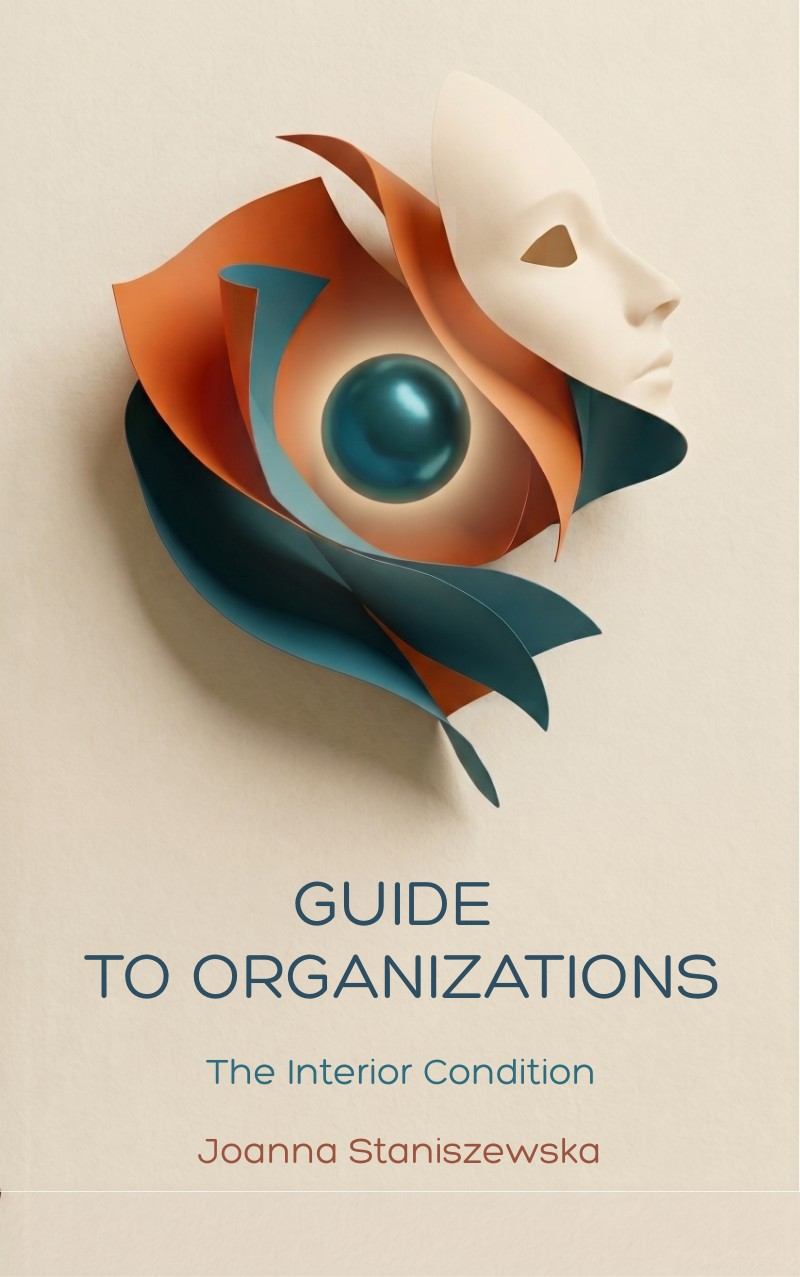
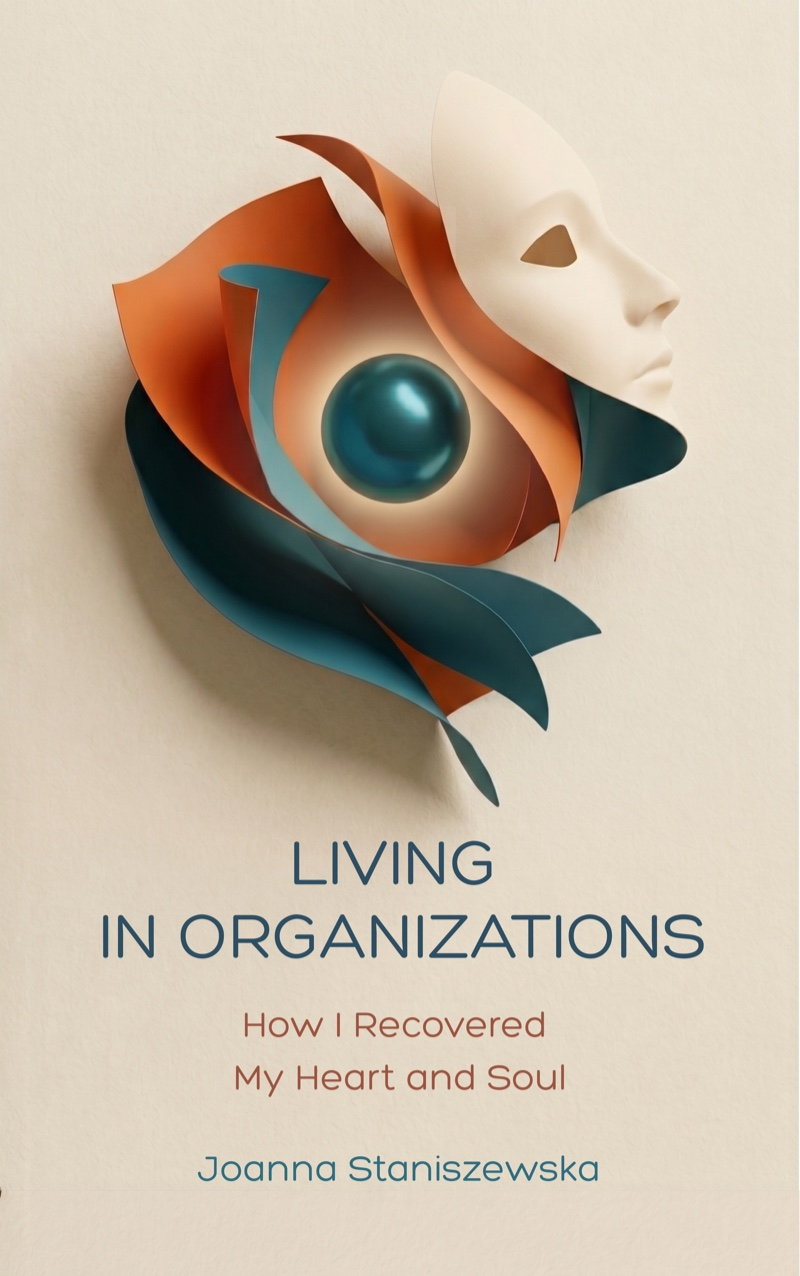
Retitle to Living in Organizations + new cover + publisher
New title/subtitle on hero, footer, privacy policy, form subject, alt text.
Add publisher "Guide to Organizations Press" (linked) in footer.
Replace cover image with new front (Living in Organizations).

Changed region(s): [[0.125, 0.6418, 0.9062, 0.8558], [0.25, 0.8864, 0.75, 0.9475]]

diff --git a/index.html b/index.html
@@ -3,7 +3,7 @@
 <head>
   <meta charset="UTF-8" />
   <meta name="viewport" content="width=device-width, initial-scale=1.0" />
-  <title>Guide to Organizations — Joanna Staniszewska</title>
+  <title>Living in Organizations — Joanna Staniszewska</title>
   <meta name="description" content="A philosophical inquiry into organizational life — from recruitment and strategy to meaning, courage, and beauty. By Joanna Staniszewska." />
   <link rel="preconnect" href="https://fonts.googleapis.com" />
   <link rel="preconnect" href="https://fonts.gstatic.com" crossorigin />
@@ -14,7 +14,7 @@
 <body>
 
   <nav>
-    <a href="#" class="nav-brand">Guide to Organizations</a>
+    <a href="#" class="nav-brand">Living in Organizations</a>
     <ul class="nav-links">
       <li><a href="#perspective">Perspective</a></li>
       <li><a href="#chapters">Chapters</a></li>
@@ -28,15 +28,15 @@
     <div class="hero-inner">
       <div class="hero-text">
         <p class="section-label">Coming Soon</p>
-        <h1>Guide to Organizations</h1>
-        <p class="hero-subtitle">The Interior Condition</p>
+        <h1>Living in Organizations</h1>
+        <p class="hero-subtitle">How I Recovered My Heart and Soul</p>
         <p class="hero-byline">Joanna Staniszewska</p>
         <p class="hero-desc">Every organization eventually faces the same thirty-three questions. This book prepares you for them.</p>
         <a href="#notify" class="btn-primary">Get early access</a>
       </div>
       <div class="hero-cover">
         <div class="book-mockup">
-          <img src="book-cover.jpg" alt="Guide to Organizations — book cover" onerror="this.style.display='none';" />
+          <img src="book-cover.jpg" alt="Living in Organizations — How I Recovered My Heart and Soul — book cover" onerror="this.style.display='none';" />
         </div>
       </div>
     </div>
@@ -191,7 +191,7 @@
       </p>
 
       <form action="https://formspree.io/f/xpqvgyab" method="POST" class="notify-form">
-        <input type="hidden" name="_subject" value="New reader — Guide to Organizations" />
+        <input type="hidden" name="_subject" value="New reader — Living in Organizations" />
         <input type="hidden" name="_next" value="https://jstaniszewska-101.github.io/guide-to-organizations-book/?subscribed=1" />
         <div class="notify-form-row">
           <input type="email" name="email" placeholder="your@email.com" required autocomplete="email" aria-label="Email address" />
@@ -230,8 +230,9 @@
   <footer style="background:#1C2B4A;color:#FBF7F2;">
     <div class="footer-inner">
       <div class="footer-left">
-        <p class="footer-title">Guide to Organizations</p>
+        <p class="footer-title">Living in Organizations</p>
         <p class="footer-copy">&copy; 2026 Joanna Staniszewska</p>
+        <p class="footer-copy"><a href="https://guidetoorganizations.pub" style="color:inherit;text-decoration:underline;">Guide to Organizations Press</a></p>
       </div>
       <div class="footer-right">
         <nav class="footer-social" aria-label="Social links">

diff --git a/privacy-policy.html b/privacy-policy.html
@@ -3,7 +3,7 @@
 <head>
   <meta charset="UTF-8" />
   <meta name="viewport" content="width=device-width, initial-scale=1.0" />
-  <title>Privacy Policy — Guide to Organizations</title>
+  <title>Privacy Policy — Living in Organizations</title>
   <link rel="icon" type="image/svg+xml" href="favicon.svg" />
   <link rel="preconnect" href="https://fonts.googleapis.com" />
   <link rel="preconnect" href="https://fonts.gstatic.com" crossorigin />
@@ -25,7 +25,7 @@
 </head>
 <body>
   <nav>
-    <a href="index.html" class="nav-brand">Guide to Organizations</a>
+    <a href="index.html" class="nav-brand">Living in Organizations</a>
     <ul class="nav-links"><li><a href="index.html">← Back</a></li></ul>
   </nav>
 
@@ -48,7 +48,7 @@
     <h2>2. What Data We Collect and Why</h2>
     <p>When you submit your email address via the early access form on this website, we collect:</p>
     <ul>
-      <li><strong>Your email address</strong> — to notify you when the book <em>Guide to Organizations</em> by Joanna Staniszewska becomes available, and to send you a preview chapter before launch.</li>
+      <li><strong>Your email address</strong> — to notify you when the book <em>Living in Organizations</em> by Joanna Staniszewska becomes available, and to send you a preview chapter before launch.</li>
     </ul>
     <p>The legal basis for processing is your consent (GDPR Art. 6(1)(a)), given at the moment of form submission.</p>
 
@@ -86,7 +86,7 @@
     <div class="footer-inner">
       <p class="footer-copy">&copy; 2026 Joanna Staniszewska</p>
       <nav class="footer-links">
-        <a href="index.html">Guide to Organizations</a>
+        <a href="index.html">Living in Organizations</a>
         <a href="mailto:joanna@guidetoorganizations.com">joanna@guidetoorganizations.com</a>
       </nav>
     </div>
